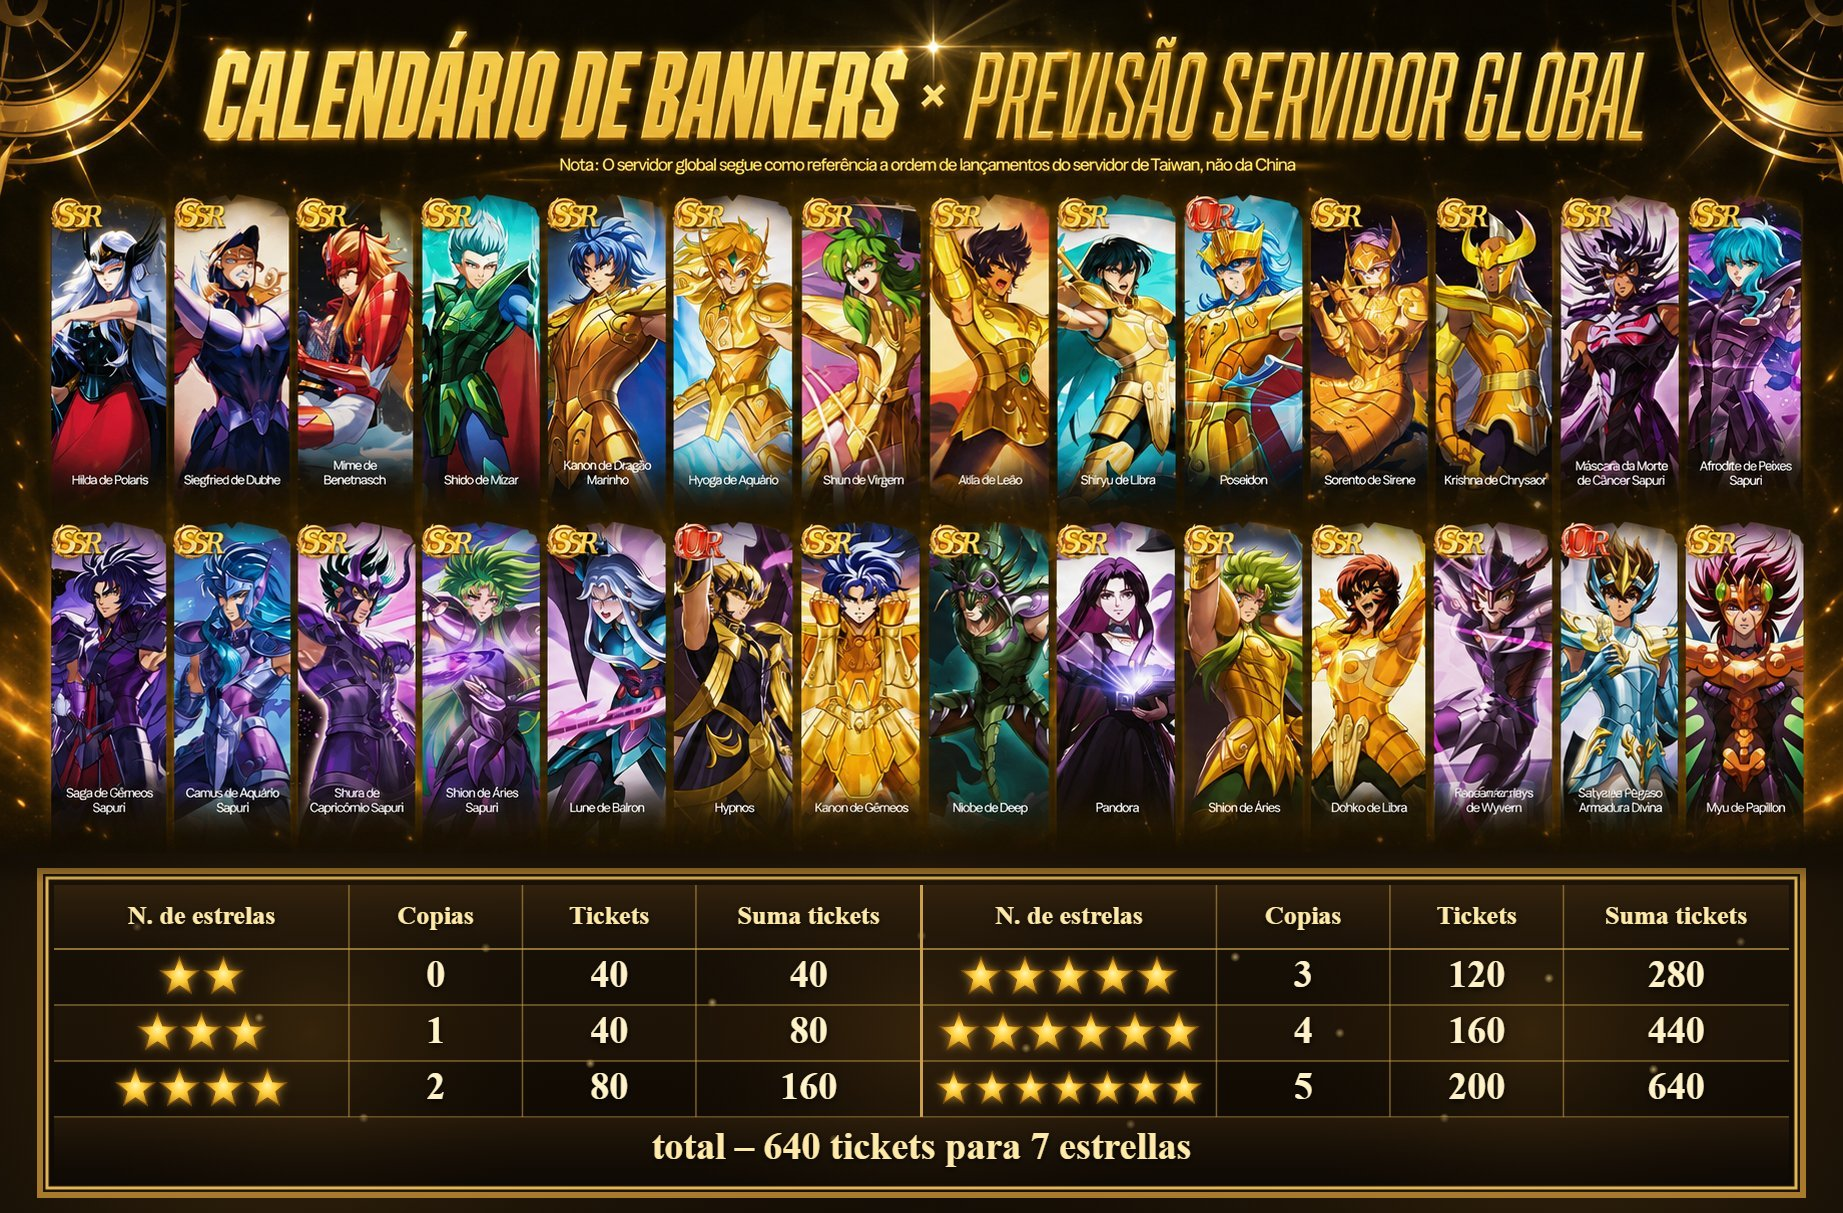
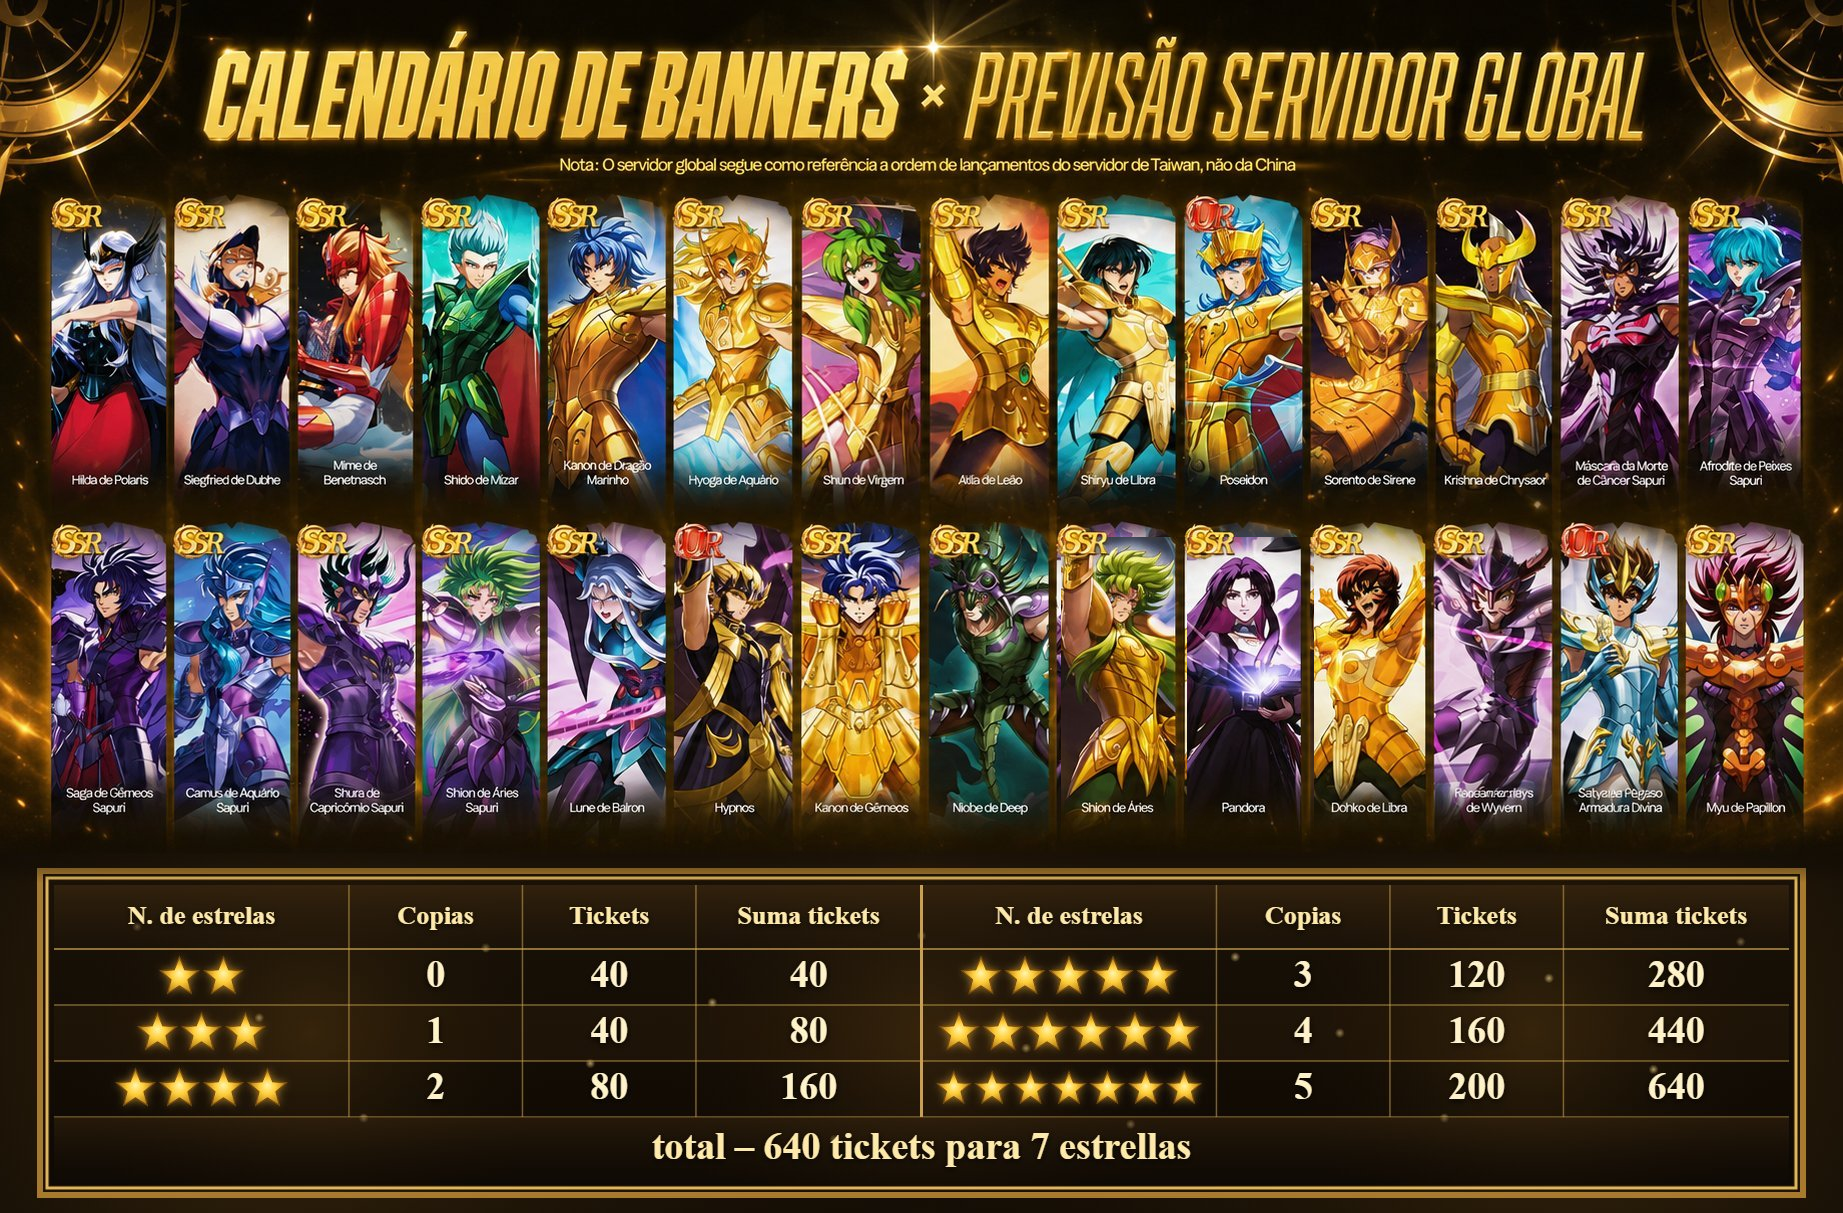
Corrige ordem do calendário (Pandora após Shion de Áries) e alinhamento da sidebar da guilda
- calendario-banners.png: cartas Pandora e Shion de Áries trocadas de posição
  na linha 2 (edição de imagem via Pillow, rótulos incluídos)
- Sidebar da guilda ancorada no .wrap (mesmo referencial do conteúdo) em vez
  de fixa à viewport — impossível sobrepor o texto em qualquer largura

Changed region(s): [[0.5567, 0.427, 0.7113, 0.6711]]

diff --git a/css/redesign-guild.css b/css/redesign-guild.css
@@ -704,10 +704,13 @@ footer {
    horizontal continua no mobile. */
 @media (min-width: 1100px) {
   .guild-subnav {
-    position: fixed;
-    left: max(16px, calc(50vw - 612px));
-    top: 148px;
+    /* Ancorado no .wrap (position:relative): mesmo referencial do conteúdo,
+       impossível desalinhar com o margin-left das seções */
+    position: absolute;
+    left: 28px;
+    top: 150px;
     width: 196px;
+    box-sizing: border-box;
     flex-direction: column;
     align-items: stretch;
     gap: 6px;
@@ -735,7 +738,7 @@ footer {
   .guild-hero,
   #tab-update.active, #tab-bosses.active, #tab-ranking.active,
   #tab-gvg.active, #tab-eventos.active, #tab-stats.active, #tab-vote.active {
-    margin-left: 232px;
+    margin-left: 224px;
   }
   /* Cabeçalho TRIADE compacto: o nome já vive na sidebar */
   .guild-hero { padding: 18px 20px 22px; text-align: left; }
